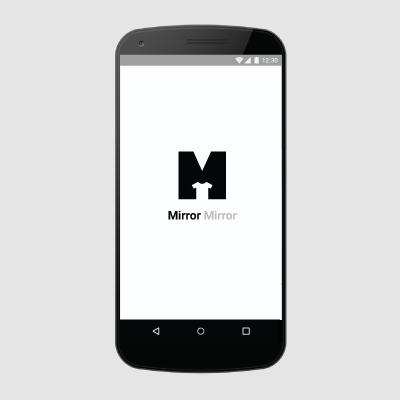
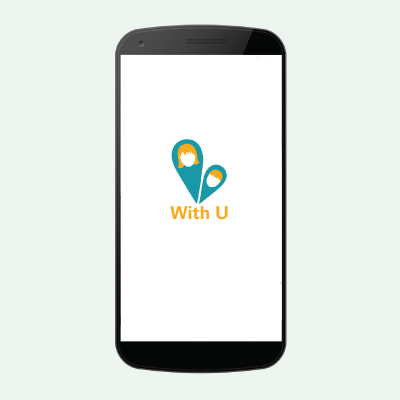
Fixed images.

Changed region(s): [[0.3, 0.78, 0.72, 0.87], [0.42, 0.33, 0.6, 0.57], [0.3, 0.12, 0.72, 0.18]]

diff --git a/_site/portfolio-5/index.html b/_site/portfolio-5/index.html
@@ -52,7 +52,8 @@
     </div>
 
     <div class="unit xs-1 s-1 m-1-2 l-1-2 pad-t pad-b gutter">
-      <p><strong>Mirror Mirror</strong> (Mobile App Design) is the app which can connect to the smart mirror at clothing store and act as a virtual change room to helping customers to choose and buy clothing quickly. For the app icon, I used letter “M” as the main focus to show the app name Mirror, Mirror. Also I combined clothes icon and letter “M” together to express that this app is using for clothing stores. </p>
+      <h3>With U</h3>
+      <p>Have you ever gotten lost while shopping with your parents at young age? Were you afraid? With U is a wearable app which is very meaningful and useful. It is provide a good way to help parents to find their child. Parents can easily locate or call their child at anytime. </p>
     </div>
 
     <div class="unit xs-1 s-1 m-1 l-1 pad-b">

diff --git a/portfolio-5.html b/portfolio-5.html
@@ -8,7 +8,8 @@
     </div>
 
     <div class="unit xs-1 s-1 m-1-2 l-1-2 pad-t pad-b gutter">
-      <p><strong>Mirror Mirror</strong> (Mobile App Design) is the app which can connect to the smart mirror at clothing store and act as a virtual change room to helping customers to choose and buy clothing quickly. For the app icon, I used letter “M” as the main focus to show the app name Mirror, Mirror. Also I combined clothes icon and letter “M” together to express that this app is using for clothing stores. </p>
+      <h3>With U</h3>
+      <p>Have you ever gotten lost while shopping with your parents at young age? Were you afraid? With U is a wearable app which is very meaningful and useful. It is provide a good way to help parents to find their child. Parents can easily locate or call their child at anytime. </p>
     </div>
 
     <div class="unit xs-1 s-1 m-1 l-1 pad-b">

diff --git a/_site/portfolio-1/index.html b/_site/portfolio-1/index.html
@@ -58,7 +58,8 @@
     </div>
 
     <div class="unit xs-1 s-1 m-1-3 l-1-3 pad-t-2 gutter">
-      <p><strong>Rationale</strong><br>For this illustration piece, I chose Peter Dinklage who is a super star. His is famous for movies. I used different shape to built this illustration. Based on his personality, I chose different blue to express his emotions.</p>
+      <h3>Rationale</h3>
+      <p>For this illustration piece, I chose Peter Dinklage who is a super star. His is famous for movies. I used different shape to built this illustration. Based on his personality, I chose different blue to express his emotions.</p>
     </div>
   </div>
 </main>

diff --git a/portfolio-1.html b/portfolio-1.html
@@ -15,7 +15,8 @@
     </div>
 
     <div class="unit xs-1 s-1 m-1-3 l-1-3 pad-t-2 gutter">
-      <p><strong>Rationale</strong><br>For this illustration piece, I chose Peter Dinklage who is a super star. His is famous for movies. I used different shape to built this illustration. Based on his personality, I chose different blue to express his emotions.</p>
+      <h3>Rationale</h3>
+      <p>For this illustration piece, I chose Peter Dinklage who is a super star. His is famous for movies. I used different shape to built this illustration. Based on his personality, I chose different blue to express his emotions.</p>
     </div>
   </div>
 </main>
